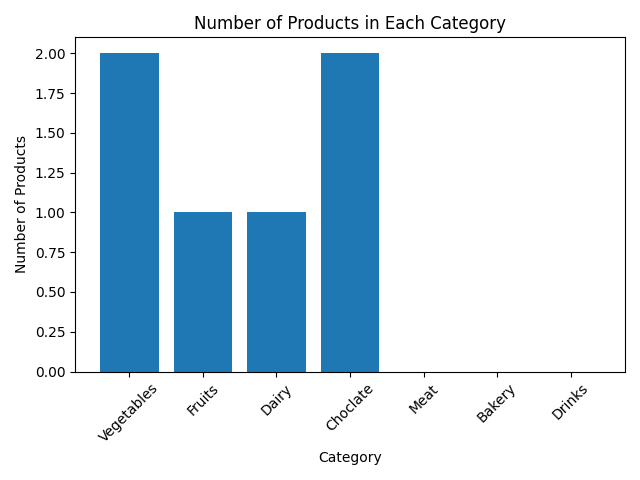
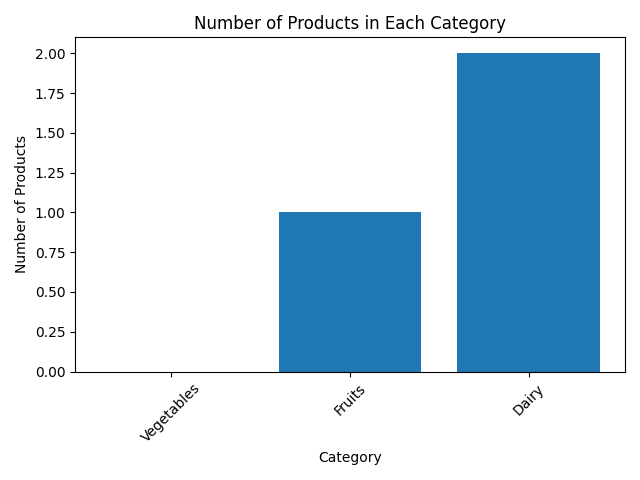
ndkje

diff --git a/templates/admin_home1.html b/templates/admin_home1.html
@@ -71,7 +71,12 @@
                                 {{ category.name }}
                                 <div class="btn-group">
                                     <a href="/edit_category/{{ category.id }}" class="btn btn-sm btn-info">Edit</a>
-                                    <a href="/delete_category/{{ category.id }}" class="btn btn-sm btn-danger">Delete</a>
+                                    
+                                    <!-- Trigger the confirmation modal -->
+                                    <button class="btn btn-sm btn-danger" data-toggle="modal" data-target="#confirmDeleteModal{{ category.id }}">
+                                        Delete
+                                    </button>
+                                    
                                     <a href="/view_category/{{ category.id }}" class="btn btn-sm btn-secondary">View</a>
                                 </div>
                             </li>
@@ -82,6 +87,32 @@
             </div>
         </div>
     </div>
+
+    <!-- Confirmation Modal -->
+    {% for category in data %}
+    <div class="modal fade" id="confirmDeleteModal{{ category.id }}" tabindex="-1" role="dialog" aria-labelledby="confirmDeleteModalLabel" aria-hidden="true">
+        <div class="modal-dialog" role="document">
+            <div class="modal-content">
+                <div class="modal-header">
+                    <h5 class="modal-title" id="confirmDeleteModalLabel">Confirm Delete</h5>
+                    <button type="button" class="close" data-dismiss="modal" aria-label="Close">
+                        <span aria-hidden="true">&times;</span>
+                    </button>
+                </div>
+                <div class="modal-body">
+                    If you delete the category "{{ category.name }}", all items in this category will be deleted. Are you sure you want to continue?
+                </div>
+                <div class="modal-footer">
+                    <!-- Form action for deleting the category -->
+                    <form action="/delete_category/{{ category.id }}" method="post">
+                        <button type="button" class="btn btn-secondary" data-dismiss="modal">No</button>
+                        <button type="submit" class="btn btn-danger">Yes</button>
+                    </form>
+                </div>
+            </div>
+        </div>
+    </div>
+    {% endfor %}
 
     <!-- Bootstrap JS -->
     <script src="https://code.jquery.com/jquery-3.5.1.slim.min.js"></script>

diff --git a/templates/view_cat.html b/templates/view_cat.html
@@ -73,12 +73,35 @@
                     <td>{{ product.quantity }}</td>
                     <td>
                         <a href="/edit_product/{{cat.id}}/{{ product.id }}" class="btn btn-sm btn-custom-primary mr-2">Edit</a>
-                        <a href="/delete_product/{{cat.id}}/{{ product.id }}" class="btn btn-sm btn-custom-danger">Delete</a>
+                        <button class="btn btn-sm btn-custom-danger" data-toggle="modal" data-target="#confirmDeleteModal{{ product.id }}">Delete</button>
+                        <!-- Delete Confirmation Modal -->
+                        <div class="modal fade" id="confirmDeleteModal{{ product.id }}" tabindex="-1" role="dialog" aria-labelledby="confirmDeleteModalLabel" aria-hidden="true">
+                            <div class="modal-dialog" role="document">
+                                <div class="modal-content">
+                                    <div class="modal-header">
+                                        <h5 class="modal-title" id="confirmDeleteModalLabel">Confirm Delete</h5>
+                                        <button type="button" class="close" data-dismiss="modal" aria-label="Close">
+                                            <span aria-hidden="true">&times;</span>
+                                        </button>
+                                    </div>
+                                    <div class="modal-body">
+                                        Are you sure you want to delete this product?
+                                    </div>
+                                    <div class="modal-footer">
+                                        <button type="button" class="btn btn-secondary" data-dismiss="modal">No</button>
+                                        <form action="/delete_product/{{cat.id}}/{{ product.id }}" method="POST">
+                                            <button type="submit" class="btn btn-custom-danger">Yes</button>
+                                        </form>
+                                    </div>
+                                </div>
+                            </div>
+                        </div>
                     </td>
                 </tr>
                 {% endfor %}
             </tbody>
         </table>
+        
     </div>
 
     <!-- Add Bootstrap JS and Popper.js (required for Bootstrap features) -->

diff --git a/templates/all_products.html b/templates/all_products.html
@@ -217,7 +217,9 @@
 
         {% for category in categories %}
         <div class="category-section">
+            {% if category.products %}
             <div class="category-name">{{ category.name }}</div>
+        {% endif %}
             <hr>
             <div class="row">
                 {% for product in products %}
@@ -227,7 +229,7 @@
                         <img src="{{ product.image_link }}" alt="{{ product.product_name }}" width="100">
                         <div class="product-details">
                             <div class="product-name">{{ product.product_name }}</div>
-                            <div class="product-price">Price: ${{ product.price }}</div>
+                            <div class="product-price">Price: {{ product.price }} Rs/Packet</div>
                             {% if product.quantity > 0 %}
                                 <div class="product-quantity">Quantity available: {{ product.quantity }}</div>
                                 <button class="add-to-cart-btn" onclick="location.href='/add_to_cart/{{user.id}}/{{product.id}}'">Add to Cart</button>

diff --git a/templates/add_to_cart.html b/templates/add_to_cart.html
@@ -21,11 +21,11 @@
                        {% if citem %}
                        Qty in your cart : {{citem.quantity}}
                        {% endif %}
-                        <h1>{{mess}}</h1>
-                        <p>Please select the quantity (between 1 and 5):</p>
+                        <h3 style="color: red;">{{mess}}</h3>
+                        <p>Please select the quantity :</p>
                         <form action="/add_to_cart/{{user.id}}/{{prod.id}}" method="POST">
                             <div class="form-group">
-                                <input type="number" class="form-control" id="quantity" name="quantity" min="1" max="5" required>
+                                <input type="number" class="form-control" id="quantity" name="quantity" min="1" max="{{prod.quantity}}" required>
                             </div>
                             <button type="submit" class="btn btn-primary">Add to Cart</button>
                         </form>

diff --git a/templates/edit_category.html b/templates/edit_category.html
@@ -1,21 +1,3 @@
-<!-- <!DOCTYPE html>
-<html lang="en">
-<head>
-    <meta charset="UTF-8">
-    <meta name="viewport" content="width=device-width, initial-scale=1.0">
-    <title>Document</title>
-</head>
-<body>
-    welcom to category {{data.name}} 
-    <h1>Edit Category</h1>
-<form method="POST" action="/edit_category/{{data.id}}">
-    <label for="category_name">Category Name:</label>
-    <input type="text" id="category_name" name="category_name" value="{{data.name}}" required>
-    <br>
-    <input type="submit" value="Edit Category">
-</form>
-</body>
-</html> -->
 <!DOCTYPE html>
 <html lang="en">
 <head>

diff --git a/app.py b/app.py
@@ -7,6 +7,8 @@ from datetime import datetime
 from flask_login import LoginManager, UserMixin, login_user, login_required, logout_user, current_user
 from flask_restful import Resource, Api
 from api import *
+import matplotlib
+matplotlib.use('Agg')
 import matplotlib.pyplot as plt
 
 app = Flask(__name__)
@@ -16,16 +18,12 @@ db.init_app(app)
 app.app_context().push()
 app.config['SECRET_KEY'] = 'Pallavi'
 
-
 api = Api(app)
-
 
 api.add_resource(Product_api, '/api/product','/api/product/<string:product_id>')
 api.add_resource(Category_api, '/api/category','/api/category/<string:category_id>')
 api.add_resource(CategoryList,'/api/categories')
 api.add_resource(ProductList,'/api/products')
-
-
 
 with app.app_context():
     db.create_all()
@@ -52,7 +50,7 @@ def admin_home():
     return render_template('admin_home1.html',data=existing_category)
 
 # Delete Category 
-@app.route("/delete_category/<cat_id>", methods=['GET'])
+@app.route("/delete_category/<cat_id>", methods=['GET','POST'])
 @login_required
 def delete_cat(cat_id):
     db.session.delete(Category.query.filter_by(id=cat_id).first())
@@ -135,14 +133,14 @@ def add_to_cart(user_id,product_id):
     citem=CartItem.query.filter_by(product_id=product_id,user_id=user_id).first()
     if request.method=="POST":
         if int(request.form['quantity'])>prod.quantity:
-            return render_template("add_to_cart.html",prod=prod,user=current_user,mess="too hot to handle",citem=citem)
+            return render_template("add_to_cart.html",prod=prod,user=current_user,mess=f"Sorry! only {prod.quantity} available",citem=citem)
         citem=CartItem.query.filter_by(product_id=product_id,user_id=user_id).first()
         if not citem:
             cart=CartItem(user_id=user_id, product_id=product_id, quantity=request.form['quantity'])
             db.session.add(cart)
         else:
             if int(request.form['quantity'])+citem.quantity>prod.quantity:
-              return render_template("add_to_cart.html",prod=prod,user=current_user,mess="too hot to handle",citem=citem)
+              return render_template("add_to_cart.html",prod=prod,user=current_user,mess=f"Sorry! only {prod.quantity} available",citem=citem)
             citem.quantity += int(request.form['quantity'])
         db.session.commit()
         return redirect('/all_products?category=all&mess='+"Added to Cart Successfully")
@@ -183,6 +181,7 @@ def payment():
     for item in cart_items:
         prod=Product.query.filter_by(id=item.product_id).first()
         prod.quantity-=item.quantity
+
         db.session.delete(item)
         db.session.add(prod)
         db.session.commit()
@@ -219,7 +218,7 @@ def all_products(mess=None):
         return render_template('all_products.html', products=products, categories=categories,user=current_user,all_categories=all_categories)
     
 # Delete Products
-@app.route("/delete_product/<cat_id>/<pro_id>", methods=['GET'])
+@app.route("/delete_product/<cat_id>/<pro_id>", methods=['GET','POST'])
 @login_required
 def delete_product(cat_id,pro_id):
     db.session.delete(Product.query.filter_by(id=pro_id).first())
@@ -283,11 +282,21 @@ def profile(user_id):
     user_id = current_user
     return render_template("profile.html",user=user_id)
 
+# Summary
 @app.route('/summary')
+@login_required
 def summary():
     categories = Category.query.all()
     category_names = [category.name for category in categories]
     product_counts = [len(category.products) for category in categories]
+    import os
+    photo='static'
+    print (os.listdir(photo))
+    file_path=os.path.join(photo,'bar_chart.png')
+    try:
+        os.remove(file_path)
+    except:
+        pass
     plt.bar(category_names, product_counts)
     plt.xlabel('Category')
     plt.ylabel('Number of Products')

diff --git a/models.py b/models.py
@@ -48,9 +48,10 @@ class CartItem(db.Model):
     user_id = db.Column(db.Integer, db.ForeignKey('user.id'), nullable=False)
     product_id = db.Column(db.Integer, db.ForeignKey('product.id'), nullable=False)
     quantity = db.Column(db.Integer, default=1)
+    bought = db.Column(db.Boolean, default=False)
+    T_time= db.Column(db.Date, nullable=True)
 
     user = db.relationship('User', backref='cart_items')
     product = db.relationship('Product', backref='cart_items')
 
-# class Transaction(db.Model):
-#     id = 
+
